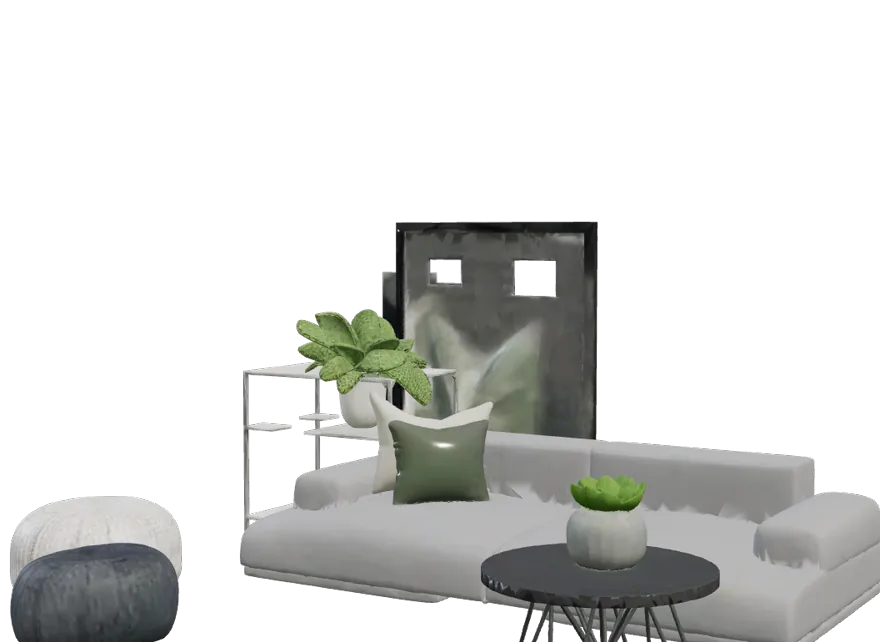
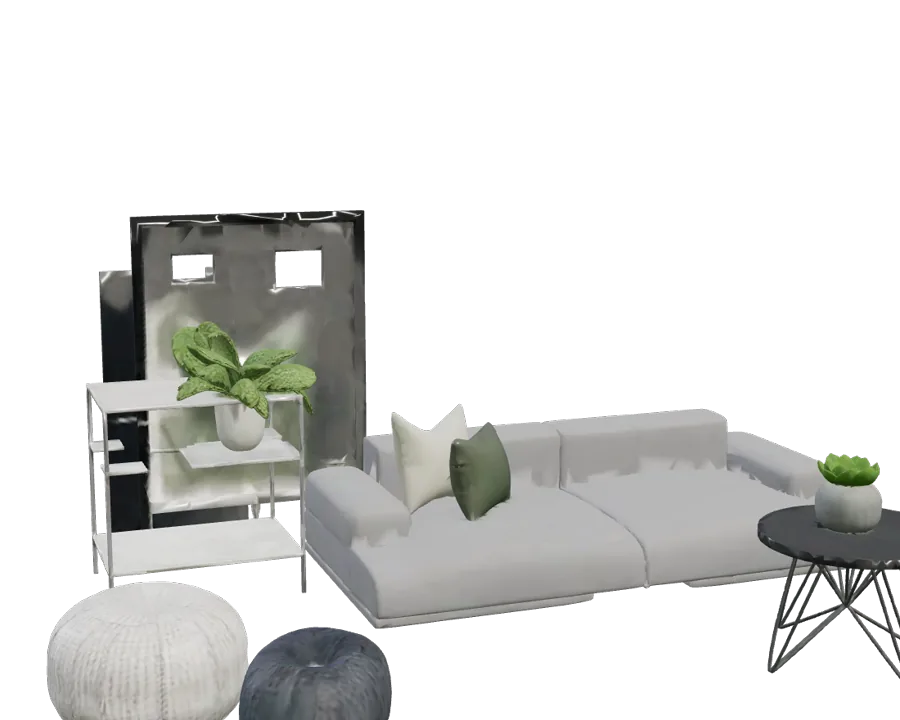
Turn the room to an angle it actually looks good at, and enlarge it
Reported as "the model is still the same ... the orientation of the model
look its off ... enlargen it or adjust the orientation". Both fair, and the
first half is on me: the previous fix was about the room tracking the layout
grid across window shapes, which at one particular window moves things by a
few pixels. I never touched the angle or the size, which is what actually
looked wrong.

THE ANGLE
Rendered the room every 0.25rad from -1.10 to +0.75 and then finer around
the promising ones, rather than guessing. It is a wide object — a sectional
with a chaise, a shelving unit, a tall framed panel — and turned end-on it
collapses: the sofa foreshortens to a stub, the panel becomes the biggest
thing on screen, and the scene reads as a pile rather than a room. The
useful window is about -0.3 to +0.8 and the best of it is around +0.35.

The old track ran -0.55 to 1.45. That started just outside the window and
ended well past it, so the hero was foreshortened AND by the last section
the room had turned end-on again from the other side. The whole track now
lives inside the good window: 0.35 -> 0.52 -> 0.68 -> 0.82, a turn rather
than a revolution, with every frame at an angle the room looks good at.

THE SIZE
0.42 of the content column to 0.48, and the height clamp from 0.82 to 0.90 —
without the second one the first is a no-op on a short window, which is
exactly the window it was reported from. Tried 0.56 first and it cropped at
both edges; the screenshots settled it.
[…]

diff --git a/app/HeroStage.js b/app/HeroStage.js
@@ -64,26 +64,47 @@ import { useEffect, useRef, useState } from 'react';
  * `y` stays viewport-relative, because vertical placement is about the fold,
  * which is a property of the window rather than of the column.
  */
+/*
+ * A NOTE ON THE ANGLES, BECAUSE THEY ARE NOT ARBITRARY
+ *
+ * This room is a wide object: a sectional sofa with a chaise, a shelving
+ * unit and a tall framed panel behind it. Turned end-on it collapses — the
+ * sofa foreshortens into a stub, the panel becomes the biggest thing on
+ * screen, and the whole scene reads as a pile of objects rather than a room.
+ * Turned open, the sofa spreads, the chaise reads, the panel falls back into
+ * being a backdrop and the poufs and table stage themselves in front of it.
+ *
+ * Rendered every 0.25rad from -1.10 to +0.75 and then finer around the
+ * promising ones. The useful window is roughly -0.3 to +0.8, and it is best
+ * around +0.35. Outside that, both ends look the same kind of wrong.
+ *
+ * The first version ran -0.55 -> 1.45, which started just outside the good
+ * window and ended well past it: the hero was foreshortened, and by the last
+ * section the room had turned end-on again. The whole track now lives inside
+ * the window, so every frame of the scroll is an angle the room actually
+ * looks good at, and the travel is a turn rather than a full revolution.
+ */
 const KEYFRAMES = [
   // Hero: right of the headline, tucked under the capsule rail.
-  // y is +0.05 rather than centred because the room's BOUNDING BOX centre is
-  // not its visual centre: the picture frame at the back is tall and empty,
-  // so a box-centred room reads as sitting low and loses its legs to the fold
-  // on a short window.
-  { at: 0.00, x: 0.25, y: 0.05, width: 0.42, rotY: -0.55, rotX: 0.07 },
-  // Handing over to the story: swings left and turns to face the text.
   //
-  // The width stays near constant through all three. The first pass grew it
-  // to 1.16 here on the theory that closer is more dramatic, and what it
+  // y is +0.05 rather than centred because the room's BOUNDING BOX centre is
+  // not its visual centre: the framed panel at the back is tall and empty, so
+  // a box-centred room reads as sitting low and loses its legs to the fold on
+  // a short window.
+  { at: 0.00, x: 0.14, y: 0.11, width: 0.48, rotY: 0.35, rotX: 0.16 },
+  // Handing over to the story: crosses to the left and keeps turning.
+  //
+  // The width stays near constant through all four. An early version grew it
+  // to 1.16x here on the theory that closer is more dramatic, and what it
   // actually did was push the coffee table on top of the second paragraph and
   // run the shelving off the left edge. The room is the page's companion
   // through this stretch, not its subject — it moves and turns, it does not
   // loom.
-  { at: 0.38, x: -0.27, y: -0.02, width: 0.44, rotY: 0.30, rotX: 0.10 },
+  { at: 0.38, x: -0.31, y: -0.02, width: 0.50, rotY: 0.52, rotX: 0.15 },
   // The three promises: settles, turning slowly.
-  { at: 0.72, x: -0.26, y: 0.00, width: 0.47, rotY: 0.95, rotX: 0.06 },
+  { at: 0.72, x: -0.30, y: 0.00, width: 0.52, rotY: 0.68, rotX: 0.12 },
   // Leaves toward the catalogue.
-  { at: 1.00, x: -0.21, y: 0.08, width: 0.44, rotY: 1.45, rotX: 0.03 }
+  { at: 1.00, x: -0.25, y: 0.08, width: 0.50, rotY: 0.82, rotX: 0.09 }
 ];
 
 /** Cubic ease-out — the curve the rest of the stylesheet already uses. */
@@ -440,7 +461,13 @@ export default function HeroStage({ children }) {
         // Wide enough to fill its share of the column...
         let scale = k.width * column.width * pxToWorld;
         // ...but never so tall that the room cannot stand in the window.
-        const tallest = 0.82 * world.y;
+        //
+        // 0.90, not 0.82: the clamp and the width fight each other, and at
+        // 0.82 a deliberately larger room was being silently shrunk back to
+        // the old size on any short window — the enlargement would have
+        // shipped as a no-op for exactly the people who reported it. This is
+        // still short of the full height, so the legs stay on.
+        const tallest = 0.90 * world.y;
         if (scale * aspectOfModel > tallest) scale = tallest / aspectOfModel;
 
         const centrePx = column.centre + k.x * column.width;

diff --git a/public/styles.css b/public/styles.css
@@ -593,8 +593,28 @@ h1, h2, h3 { font-weight: 700; letter-spacing: -.03em; line-height: 1.02; }
 .capsule-rail {
   display: grid; gap: .75rem;
   justify-self: end;
-  width: min(100%, 22rem);
-  align-content: center;
+  /* 19rem, not 22: the rail and the room want the same pixels, and the room
+     is a sofa — the one object on a furniture site that has to be visible.
+     Every rem taken off here is a rem of sofa that stops being hidden behind
+     a category shortcut. */
+  width: min(100%, 19rem);
+
+  /*
+    High in the column, not centred in it.
+
+    The room is a wide, low object: the sofa, the table and the poufs all sit
+    in its bottom half, and the tall framed panel is the only thing up top.
+    A vertically centred rail lands exactly across that bottom half — it hid
+    the sofa, and it covered the coffee table's top while leaving its wire
+    legs poking out underneath, which reads as a loose piece of geometry
+    rather than a table.
+
+    Pushed up, the rail overlaps the panel instead, which is backdrop and
+    loses nothing. This is also what the reference does: pills high, object
+    low.
+  */
+  align-self: start;
+  margin-top: clamp(1rem, 9vh, 5rem);
 }
 
 .capsule-card {
